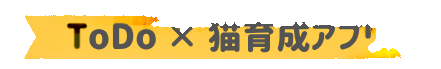
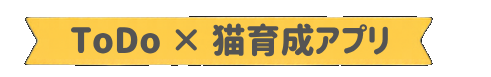
fix(login): re-crop ribbon (img-50) with wider right padding, no erosion

diff --git a/app/login/_assets.ts b/app/login/_assets.ts
@@ -34,7 +34,7 @@ export const DECOR_ASSETS: LoginAsset[] = [
   { idx: 48, key: "cat_face_orange", src: "/login-svg/img-48.png", x: 470.08, y: 432.82, w: 161.94, h: 149.95, z: 4 },
   { idx: 49, key: "paw_mint", src: "/login-svg/img-49.png", x: 617.03, y: 522.04, w: 88.47, h: 60.73, z: 5 },
   { idx: 51, key: "cat_face_calico", src: "/login-svg/img-51.png", x: 587.79, y: 627.0, w: 117.71, h: 119.96, z: 4 },
-  { idx: 50, key: "ribbon_yellow", src: "/login-svg/img-50.png", x: 190.43, y: 701.22, w: 324.63, h: 45.73, z: 6 },
+  { idx: 50, key: "ribbon_yellow", src: "/login-svg/img-50.png", x: 183.75, y: 694.50, w: 368.25, h: 57.75, z: 6 },
   { idx: 55, key: "smile_mark_left", src: "/login-svg/img-55.png", x: 161.19, y: 969.63, w: 44.98, h: 30.74, z: 5 },
   { idx: 56, key: "smile_mark_right", src: "/login-svg/img-56.png", x: 499.32, y: 969.63, w: 29.99, h: 30.74, z: 5 },
   { idx: 57, key: "feature_clipboard", src: "/login-svg/img-57.png", x: 43.48, y: 999.62, w: 177.69, h: 164.94, z: 4 },